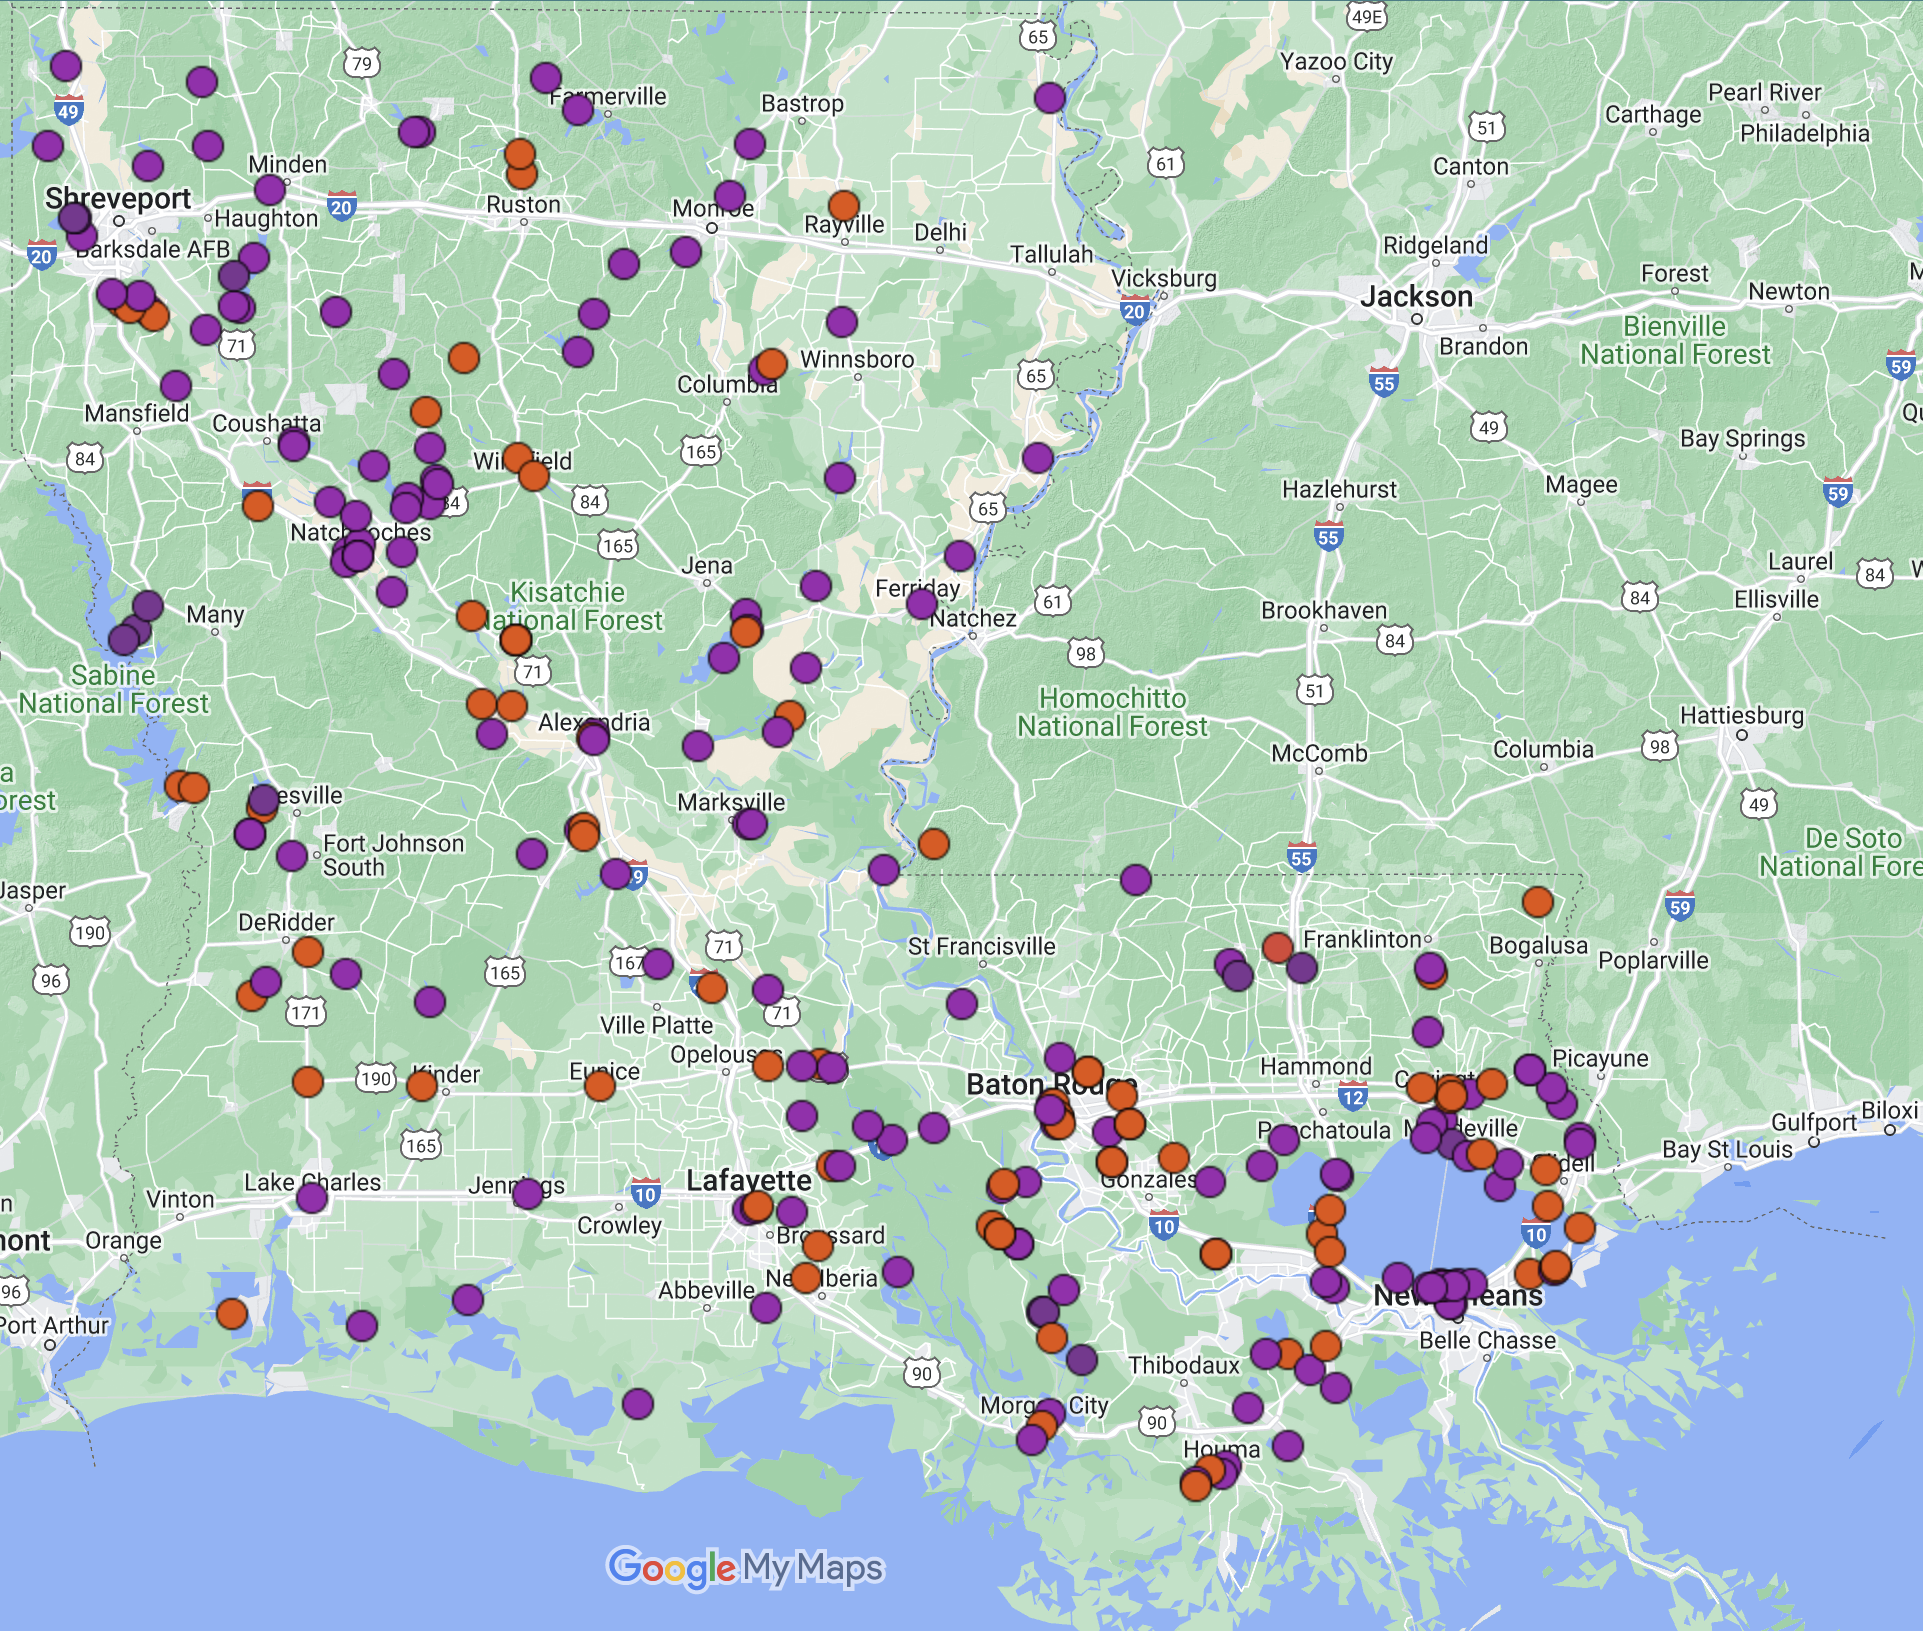
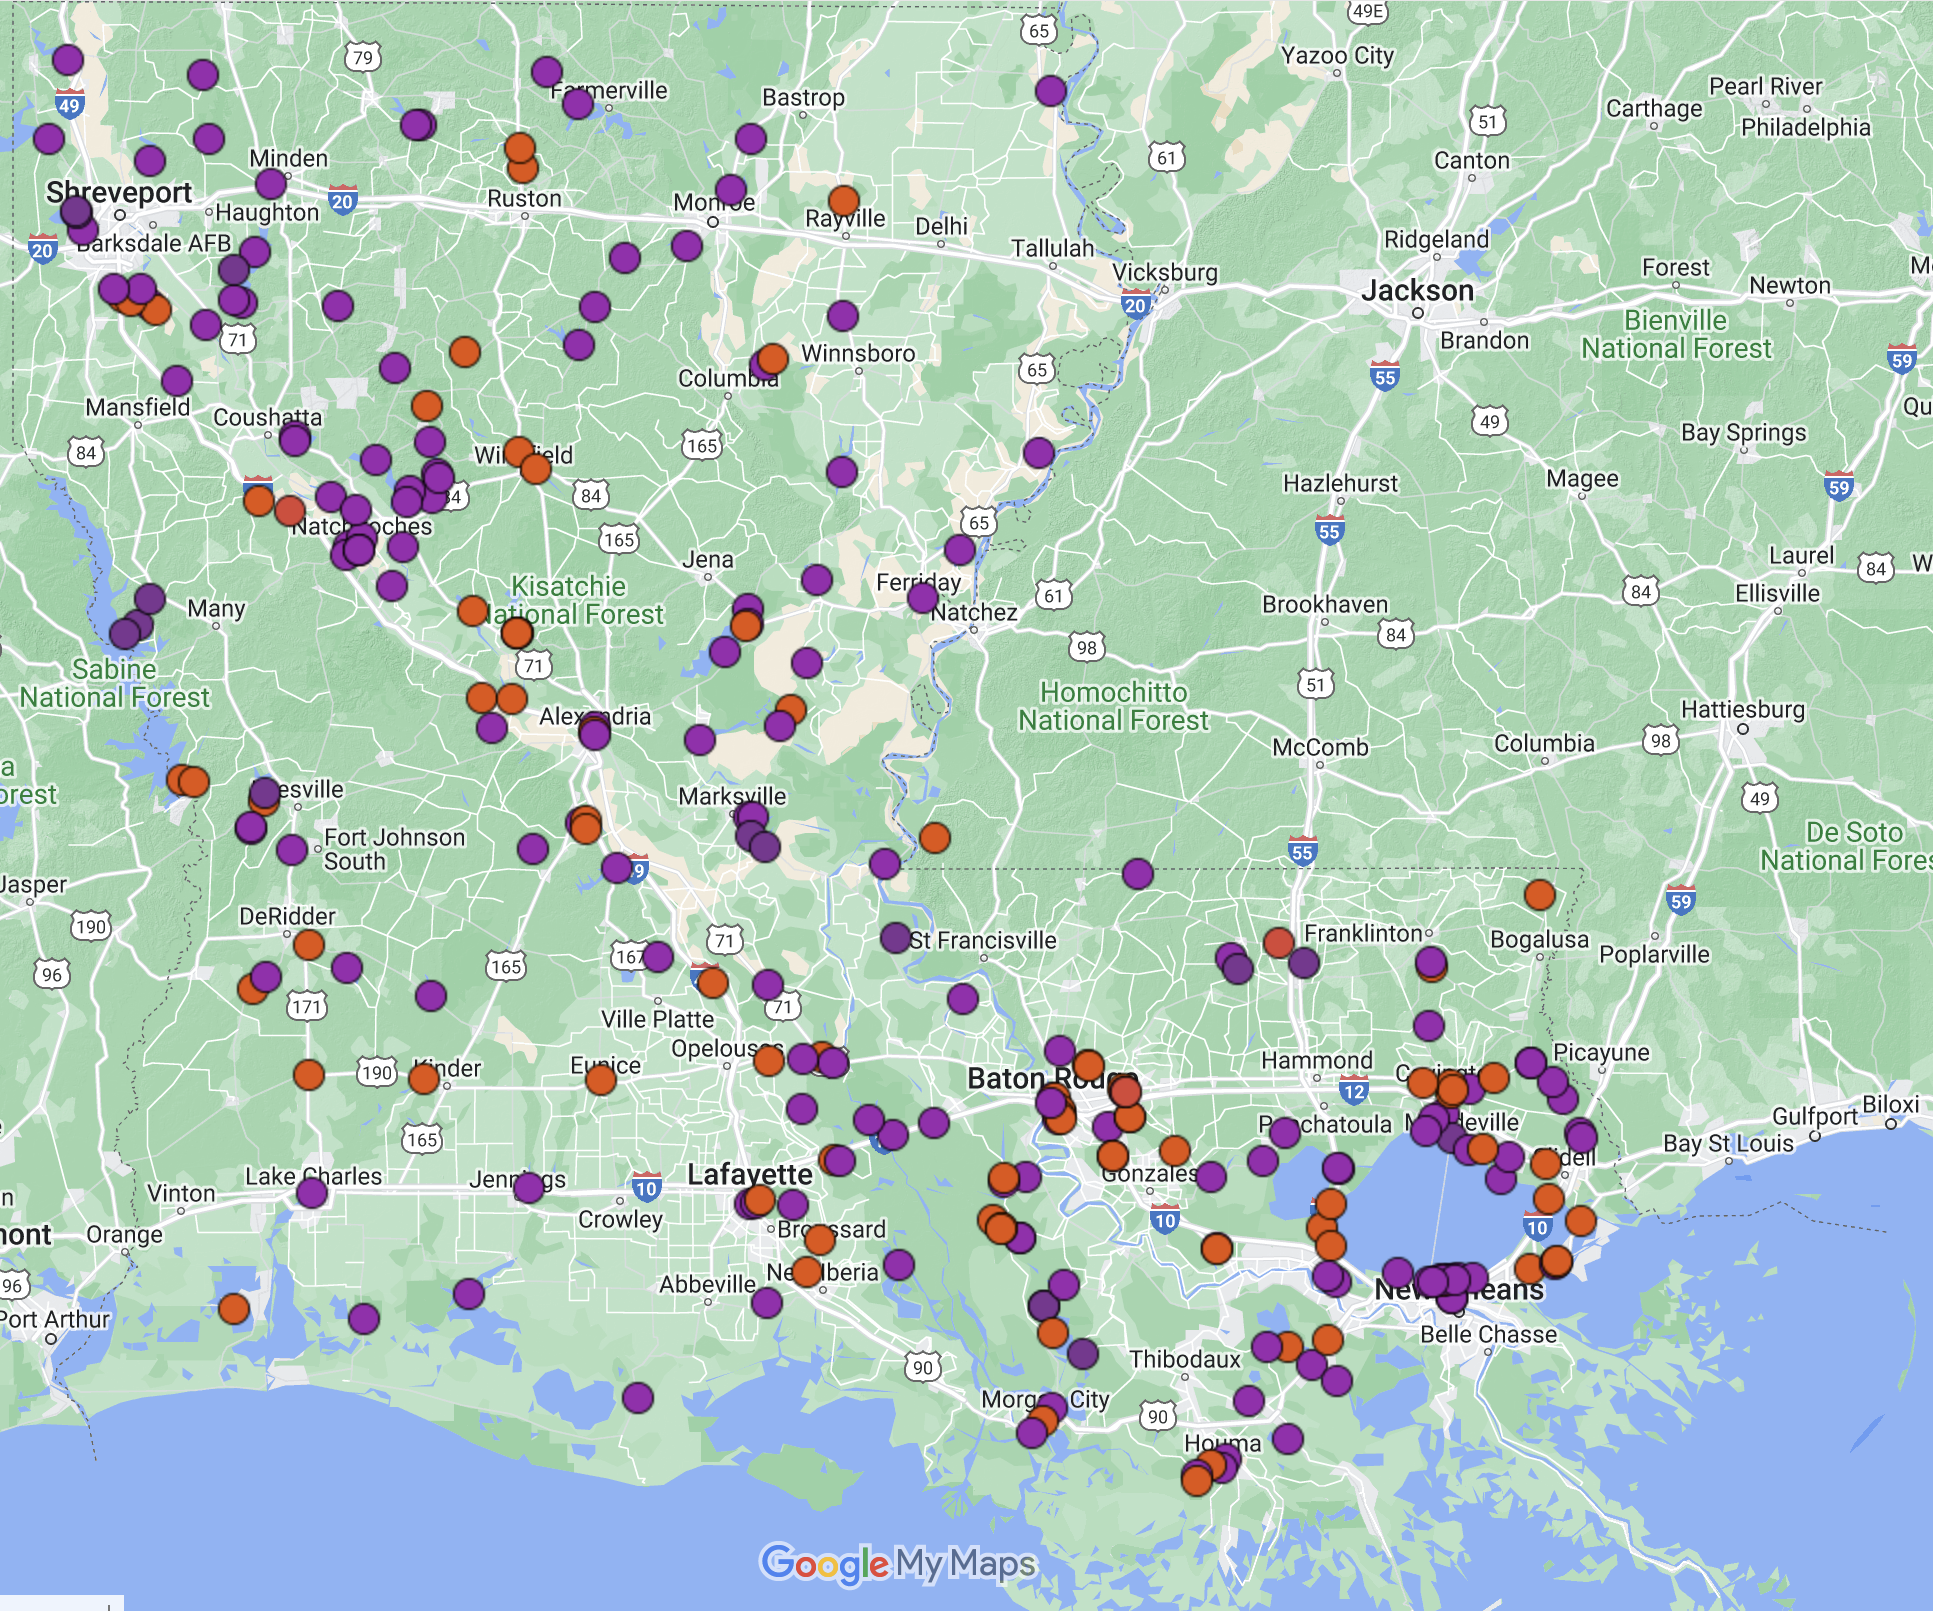
Updated All Sites Map on "The Hunt" page as well as the number of sites visited, so it is reflected correctly.

Changed region(s): [[0.0, 0.0, 1.0, 1.0], [0.0, 0.9932, 0.0624, 1.0]]

diff --git a/donate.html b/donate.html
@@ -307,9 +307,6 @@ Every penny donated will go to support students working on this project!
 Please contact Dr. Miller at <a href="mailto:millerm2@mybrcc.edu"
 class="email">millerm2@mybrcc.edu</a> if you have questions about
 donations, you are welcome to call her at 225-216-8528.</p>
-<br><div id="blackbaud-donation-form_4c143e91-7864-4dbe-a060-44022212d31b"></div>
-<script src=https://sky.blackbaudcdn.net/static/donor-form-loader/2/main.js></script>
-<script>BBDonorFormLoader.newBlackbaudDonationFormZoned('renxt', 'p-n0JbOlKDSkO4AIqh506tgw', '4c143e91-7864-4dbe-a060-44022212d31b', 'usa')</script><br> 
 <p>Thank you to our current personal supporters: <br> Michelle Watkins
 <br> Sondra LeBreton <br> <br> <br> Thank you to our current corporation
 sponsors: <br> <img src="honey.jpg" style="width:25.0%" /> <br> <a

diff --git a/thehunt.html b/thehunt.html
@@ -292,7 +292,7 @@ body {
 background-color: #B9F2FE
 }
 </style>
-<p>Currently, we have surveyed over 200 sites! The site map below is
+<p>Currently, we have surveyed over 250 sites! The site map below is
 continuously updated with the sites surveyed in this study. Sites are
 further labeled with the observation of sponge presence (purple) or
 absence (orange).</p>
